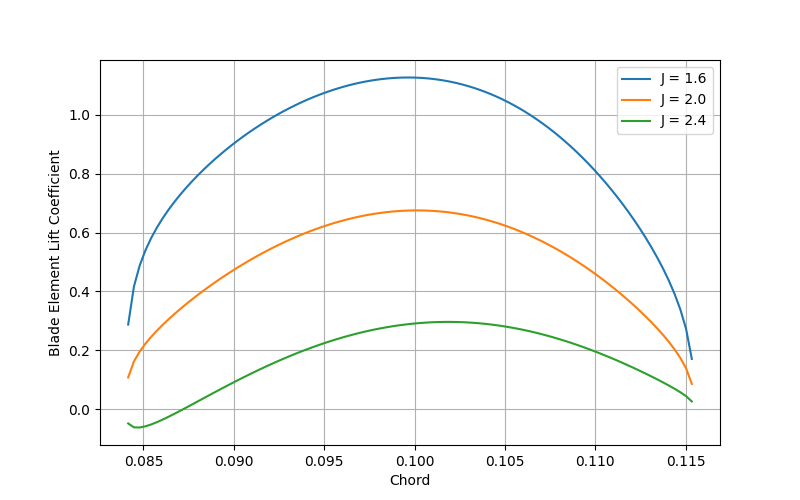
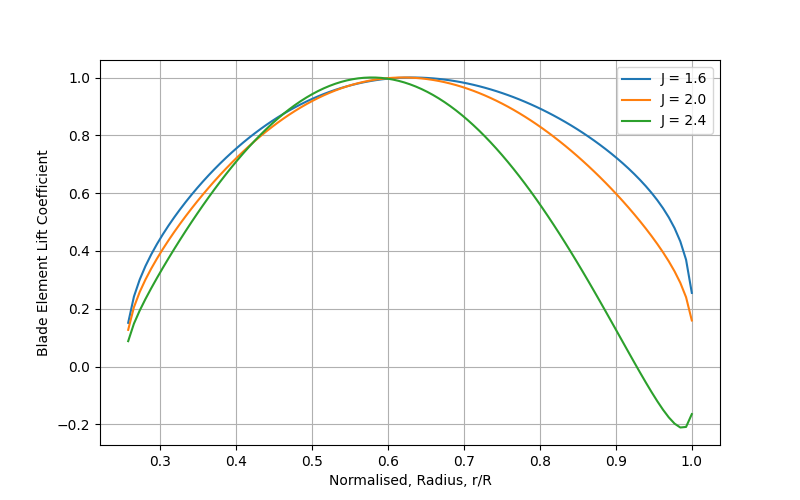
FINALEST CODE

diff --git a/BEM FINAL CODE.py b/BEM FINAL CODE.py
@@ -225,8 +225,8 @@ for i in range(len(J)):
     plt.legend()
 
     plt.figure("Cl vs Chord", figsize = fs)
-    plt.plot(chord[i][:], Cl[i][:], label="J = " + str(J[i]))
-    plt.xlabel("Chord")
+    plt.plot(r_R[1:], (Cl[i][:])/(np.max(Cl[i])), label="J = " + str(J[i]))
+    plt.xlabel("Normalised, Radius, r/R")
     plt.ylabel("Blade Element Lift Coefficient")
     plt.grid(True)
     plt.legend()
@@ -245,6 +245,12 @@ for i in range(len(J)):
     plt.grid(True)
     plt.legend()
 
+plt.figure("LD vs alfa of airfoil", figsize = fs)
+plt.plot(polar_alfa,(polar_cl/polar_cd), label="L/D")
+plt.plot(polar_alfa[np.argmax(polar_cl/polar_cd)],np.max(polar_cl/polar_cd), 'o')
+plt.xlabel("Angle of Attack, [deg]")
+plt.ylabel("L/D")
+plt.grid(True)
 
 plt.figure("Thrust and Torque vs Advance Ratio", figsize = fs)
 plt.plot(J,((rho*(n**2)*(2*R)**4)*CT), '-o', label="Thrust",)
@@ -270,12 +276,12 @@ fig = plt.figure(figsize=(10, 6))
 ax = fig.add_subplot(111, projection='3d')
 
 # Convert r_R to actual blade length
-r_values = r_R * R  # Convert normalized radius to meters
-chord_values = chord_dist * R  # Scale chord to actual size
-twist_values = np.radians(twist_dist)  # Convert degrees to radians for rotation
+r_values = r_R * R                      # Convert normalized radius to meters
+chord_values = chord_dist * R           # Scale chord to actual size
+twist_values = np.radians(twist_dist)   # Convert degrees to radians for rotation
 
 # Create mesh grid for chord-wise variation
-num_chord_points = nodes  # Number of points along chord
+num_chord_points = nodes                          # Number of points along chord
 chord_grid = np.linspace(0, 1, num_chord_points)  # Chord runs from -0.5 to 0.5
 r_mesh, chord_mesh = np.meshgrid(r_values, chord_grid)
 
